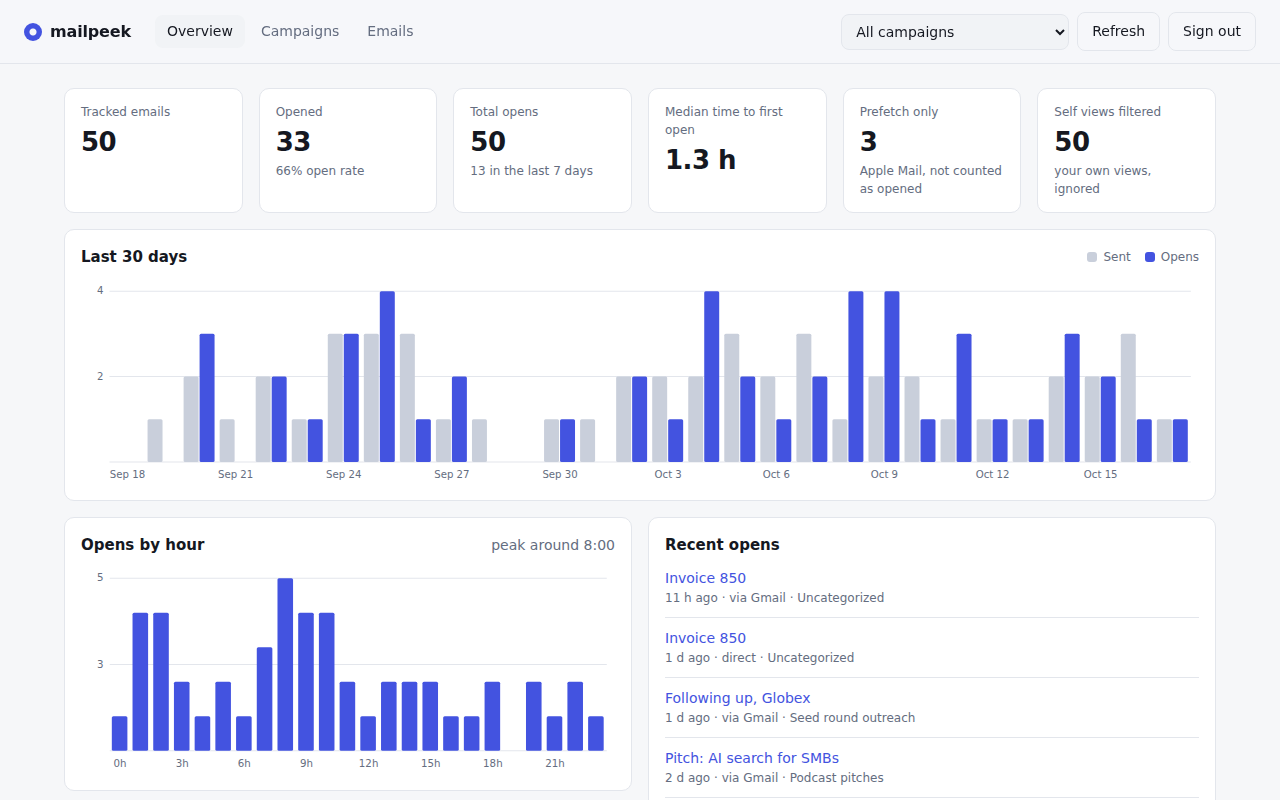
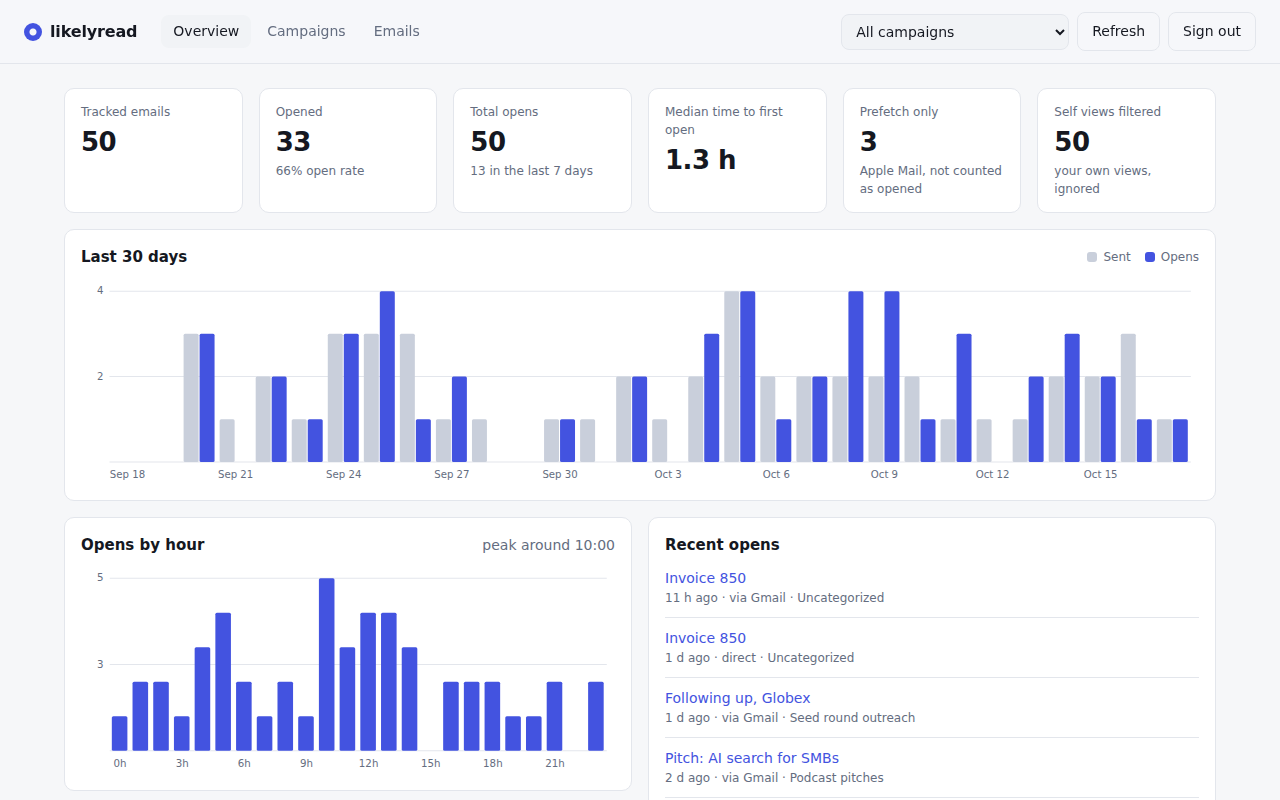
Rename mailpeek to likelyread

diff --git a/extension/test/compose.test.ts b/extension/test/compose.test.ts
@@ -64,7 +64,7 @@ const pixels = (body: HTMLElement) => body.querySelectorAll(`img[src^="${SERVER}
 
 test("adds a toggle next to Send, on by default", () => {
   const { doc } = setup();
-  const toggle = doc.querySelector(".mailpeek-toggle")!;
+  const toggle = doc.querySelector(".likelyread-toggle")!;
   assert.ok(toggle, "toggle injected");
   assert.equal(toggle.getAttribute("aria-pressed"), "true");
   assert.match(toggle.getAttribute("title")!, /campaign: Q4/);
@@ -114,7 +114,7 @@ test("plain Enter in the body does not trigger tracking", () => {
 
 test("toggling off sends untracked", () => {
   const { doc, body, click, registered, win } = setup();
-  doc.querySelector(".mailpeek-toggle")!.dispatchEvent(new win.MouseEvent("click", { bubbles: true }));
+  doc.querySelector(".likelyread-toggle")!.dispatchEvent(new win.MouseEvent("click", { bubbles: true }));
   click();
   assert.equal(pixels(body).length, 0);
   assert.equal(registered.length, 0);
@@ -158,7 +158,7 @@ test("a compose without a recognisable Send button is left untouched", () => {
     now: () => 0,
   });
   t.scan();
-  assert.equal(dom.window.document.querySelector(".mailpeek-toggle"), null);
+  assert.equal(dom.window.document.querySelector(".likelyread-toggle"), null);
 });
 
 test("viewing our own sent email sends a suppress ping, throttled, but not for the compose pixel", () => {
@@ -202,13 +202,13 @@ test("a quoted pixel does not force tracking on", () => {
     now: () => 0,
   });
   t.scan();
-  assert.equal(dom.window.document.querySelector(".mailpeek-toggle")!.getAttribute("aria-pressed"), "false");
+  assert.equal(dom.window.document.querySelector(".likelyread-toggle")!.getAttribute("aria-pressed"), "false");
 });
 
 test("the toggle comes back if Gmail re-renders the toolbar", () => {
   const { doc, tracker } = setup();
-  doc.querySelector(".mailpeek-toggle")!.closest("td")!.remove();
-  assert.equal(doc.querySelector(".mailpeek-toggle"), null);
+  doc.querySelector(".likelyread-toggle")!.closest("td")!.remove();
+  assert.equal(doc.querySelector(".likelyread-toggle"), null);
   tracker.scan();
-  assert.ok(doc.querySelector(".mailpeek-toggle"));
+  assert.ok(doc.querySelector(".likelyread-toggle"));
 });

diff --git a/server/dashboard/index.html b/server/dashboard/index.html
@@ -4,7 +4,7 @@
   <meta charset="utf-8">
   <meta name="viewport" content="width=device-width, initial-scale=1">
   <meta name="robots" content="noindex, nofollow">
-  <title>mailpeek dashboard</title>
+  <title>likelyread dashboard</title>
   <link rel="icon" href="data:,">
   <link rel="stylesheet" href="/assets/style.css">
   <script src="/assets/app.js" defer></script>
@@ -12,8 +12,8 @@
 <body>
   <div id="login" class="login" hidden>
     <form id="login-form" class="login-card">
-      <div class="brand"><span class="logo" aria-hidden="true"></span>mailpeek</div>
-      <p class="muted">Enter the server token (<code>MAILPEEK_TOKEN</code>) to open the dashboard.</p>
+      <div class="brand"><span class="logo" aria-hidden="true"></span>likelyread</div>
+      <p class="muted">Enter the server token (<code>LIKELYREAD_TOKEN</code>) to open the dashboard.</p>
       <label for="token-input">Token</label>
       <input id="token-input" type="password" autocomplete="current-password" required>
       <label class="check"><input id="remember" type="checkbox"> Remember on this device</label>
@@ -24,7 +24,7 @@
 
   <div id="shell" hidden>
     <header class="topbar">
-      <div class="brand"><span class="logo" aria-hidden="true"></span>mailpeek</div>
+      <div class="brand"><span class="logo" aria-hidden="true"></span>likelyread</div>
       <nav class="tabs" aria-label="Sections">
         <a href="#/overview" data-tab="overview">Overview</a>
         <a href="#/campaigns" data-tab="campaigns">Campaigns</a>

diff --git a/extension/src/compose.ts b/extension/src/compose.ts
@@ -17,8 +17,8 @@ export interface ComposeDeps {
   now(): number;
 }
 
-const ENHANCED = "mailpeekEnhanced";
-const TOGGLE_CLASS = "mailpeek-toggle";
+const ENHANCED = "likelyreadEnhanced";
+const TOGGLE_CLASS = "likelyread-toggle";
 
 interface ComposeState {
   root: HTMLElement;
@@ -128,10 +128,10 @@ export class ComposeTracker {
     t.setAttribute("aria-pressed", String(state.enabled));
     const campaign = cfg.campaign ? ` (campaign: ${cfg.campaign})` : "";
     const label = !cfg.configured
-      ? "mailpeek is not configured: open the extension options"
+      ? "likelyread is not configured: open the extension options"
       : state.enabled
-        ? `mailpeek: tracking ON${campaign}. Click to turn off.`
-        : "mailpeek: tracking OFF. Click to turn on.";
+        ? `likelyread: tracking ON${campaign}. Click to turn off.`
+        : "likelyread: tracking OFF. Click to turn on.";
     t.title = label;
     t.setAttribute("aria-label", label);
   }
@@ -257,7 +257,7 @@ export class ComposeTracker {
     try {
       fn();
     } catch (err) {
-      console.warn("[mailpeek] ignored error (email sending is unaffected):", err);
+      console.warn("[likelyread] ignored error (email sending is unaffected):", err);
     }
   }
 }

diff --git a/extension/src/options/options.html b/extension/src/options/options.html
@@ -2,19 +2,19 @@
 <html lang="en">
 <head>
   <meta charset="utf-8">
-  <title>mailpeek options</title>
+  <title>likelyread options</title>
   <link rel="stylesheet" href="options.css">
   <script src="options.js" defer></script>
 </head>
 <body>
   <main>
-    <h1>mailpeek</h1>
-    <p class="muted">Connect the extension to your self-hosted mailpeek server.</p>
+    <h1>likelyread</h1>
+    <p class="muted">Connect the extension to your self-hosted likelyread server.</p>
     <form id="form">
       <label for="serverUrl">Server URL</label>
       <input id="serverUrl" placeholder="https://t.example.com" required>
       <label for="token">Token</label>
-      <input id="token" type="password" placeholder="MAILPEEK_TOKEN from your server .env" required>
+      <input id="token" type="password" placeholder="LIKELYREAD_TOKEN from your server .env" required>
       <label class="check"><input id="trackByDefault" type="checkbox"> Track new emails by default</label>
       <label for="campaign">Campaign for new tracked emails (optional)</label>
       <input id="campaign" placeholder="e.g. Q4 outreach" maxlength="100">

diff --git a/server/dashboard/app.js b/server/dashboard/app.js
@@ -1,8 +1,8 @@
-/* mailpeek dashboard. Plain JS, no dependencies. All data comes from the
+/* likelyread dashboard. Plain JS, no dependencies. All data comes from the
  * authenticated API; the token never leaves this origin. */
 "use strict";
 
-const TOKEN_KEY = "mailpeek.token";
+const TOKEN_KEY = "likelyread.token";
 const NO_CAMPAIGN = "__none__";
 const state = { token: null, campaign: "", campaigns: [] };
 
@@ -347,7 +347,7 @@ async function viewEmail(root, id) {
 function emptyState() {
   return h("section", { class: "card empty-state" },
     h("h2", {}, "Nothing tracked yet"),
-    h("p", { class: "muted" }, "Install the mailpeek Chrome extension, enter this server URL and token in its options, then send an email from Gmail with tracking on."));
+    h("p", { class: "muted" }, "Install the likelyread Chrome extension, enter this server URL and token in its options, then send an email from Gmail with tracking on."));
 }
 
 // ---------------------------------------------------------------- router

diff --git a/extension/src/background.ts b/extension/src/background.ts
@@ -3,7 +3,7 @@ import { backoffMs, dnrRules, MAX_RETRY_MS, normalizeServerUrl, UUID4_RE } from 
 import { ApiError, apiFetch, getSettings, type ContentConfig, type Message, type QueueItem } from "./shared";
 
 const QUEUE_KEY = "queue";
-const FLUSH_ALARM = "mailpeek-flush";
+const FLUSH_ALARM = "likelyread-flush";
 
 async function getQueue(): Promise<QueueItem[]> {
   const { [QUEUE_KEY]: q } = await chrome.storage.local.get(QUEUE_KEY);

diff --git a/extension/src/popup/popup.ts b/extension/src/popup/popup.ts
@@ -29,7 +29,7 @@ async function main(): Promise<void> {
     const link = h("a", null, "Open options");
     link.href = "#";
     link.addEventListener("click", () => chrome.runtime.openOptionsPage());
-    list.replaceChildren(h("p", "muted", "mailpeek is not set up yet. ", link));
+    list.replaceChildren(h("p", "muted", "likelyread is not set up yet. ", link));
     return;
   }
   dash.href = `${settings.serverUrl}/`;

diff --git a/extension/src/lib.ts b/extension/src/lib.ts
@@ -28,7 +28,7 @@ function escapeRe(s: string): string {
 }
 
 /**
- * Find a mailpeek pixel id in an image URL. Works for direct URLs and for
+ * Find a likelyread pixel id in an image URL. Works for direct URLs and for
  * Gmail proxy URLs that keep the original after a `#`.
  */
 export function extractPixelId(src: string, server: string): string | null {

diff --git a/extension/src/popup/popup.html b/extension/src/popup/popup.html
@@ -7,7 +7,7 @@
 </head>
 <body>
   <header>
-    <div class="brand"><span class="logo"></span>mailpeek</div>
+    <div class="brand"><span class="logo"></span>likelyread</div>
     <a id="dashboard" href="#" target="_blank" rel="noopener">Dashboard</a>
   </header>
   <section class="campaign">

diff --git a/server/tests/test_app.py b/server/tests/test_app.py
@@ -5,7 +5,7 @@ import uuid
 import pytest
 from fastapi.testclient import TestClient
 
-import app as mailpeek
+import app as likelyread
 
 TOKEN = "t" * 32
 AUTH = {"Authorization": f"Bearer {TOKEN}"}
@@ -16,7 +16,7 @@ DIRECT_UA = "Mozilla/5.0 (Macintosh; Intel Mac OS X 10_15_7) AppleWebKit/605.1.1
 
 @pytest.fixture
 def env(tmp_path, monkeypatch):
-    monkeypatch.setenv("MAILPEEK_TOKEN", TOKEN)
+    monkeypatch.setenv("LIKELYREAD_TOKEN", TOKEN)
     monkeypatch.setenv("DB_PATH", str(tmp_path / "test.db"))
     monkeypatch.setenv("PIXEL_RATE_PER_MIN", "1000")
     return monkeypatch
@@ -25,13 +25,13 @@ def env(tmp_path, monkeypatch):
 @pytest.fixture
 def clock(monkeypatch):
     state = {"now": 1_800_000_000.0}
-    monkeypatch.setattr(mailpeek.time, "time", lambda: state["now"])
+    monkeypatch.setattr(likelyread.time, "time", lambda: state["now"])
     return state
 
 
 @pytest.fixture
 def client(env, clock):
-    return TestClient(mailpeek.create_app())
+    return TestClient(likelyread.create_app())
 
 
 def new_id() -> str:
@@ -58,10 +58,10 @@ def hit(client, eid, ua=DIRECT_UA):
 
 
 def test_refuses_to_start_without_token(tmp_path, monkeypatch):
-    monkeypatch.delenv("MAILPEEK_TOKEN", raising=False)
+    monkeypatch.delenv("LIKELYREAD_TOKEN", raising=False)
     monkeypatch.setenv("DB_PATH", str(tmp_path / "x.db"))
     with pytest.raises(RuntimeError):
-        mailpeek.create_app()
+        likelyread.create_app()
 
 
 def test_healthz_public(client):
@@ -126,7 +126,7 @@ def test_hits_for_unknown_ids_are_kept_until_registration(client, clock):
 
 def test_store_ip_false(env, clock):
     env.setenv("STORE_IP", "false")
-    c = TestClient(mailpeek.create_app())
+    c = TestClient(likelyread.create_app())
     eid = new_id()
     register(c, eid)
     clock["now"] += 100
@@ -136,7 +136,7 @@ def test_store_ip_false(env, clock):
 
 def test_pixel_rate_limit(env, clock):
     env.setenv("PIXEL_RATE_PER_MIN", "3")
-    c = TestClient(mailpeek.create_app())
+    c = TestClient(likelyread.create_app())
     eid = new_id()
     for _ in range(5):
         hit(c, eid)
@@ -206,14 +206,14 @@ def test_prefetch_only_status(client, clock):
 
 def test_classification_reads_current_config(env, clock):
     """Rules are computed at read time: changing GRACE_SECONDS reclassifies old hits."""
-    c = TestClient(mailpeek.create_app())
+    c = TestClient(likelyread.create_app())
     eid = new_id()
     register(c, eid)
     clock["now"] += 30
     hit(c, eid)
     assert c.get(f"/api/emails/{eid}", headers=AUTH).json()["opens"] == 1
     env.setenv("GRACE_SECONDS", "60")
-    c2 = TestClient(mailpeek.create_app())
+    c2 = TestClient(likelyread.create_app())
     assert c2.get(f"/api/emails/{eid}", headers=AUTH).json()["opens"] == 0
 
 
@@ -362,12 +362,12 @@ def test_stats_timezone_bucketing(client, clock):
 
 def test_retention_purge(env, clock):
     env.setenv("RETENTION_DAYS", "1")
-    c = TestClient(mailpeek.create_app())
+    c = TestClient(likelyread.create_app())
     eid = new_id()
     hit(c, eid)
     clock["now"] += 2 * 86400
     hit(c, eid)
-    n = mailpeek.purge_old(c.app.state.db, c.app.state.cfg)
+    n = likelyread.purge_old(c.app.state.db, c.app.state.cfg)
     assert n == 1
     assert c.app.state.db.query("SELECT COUNT(*) c FROM hits")[0]["c"] == 1
 
@@ -377,7 +377,7 @@ def test_retention_purge(env, clock):
 
 def test_dashboard_served_with_csp(client):
     r = client.get("/")
-    assert r.status_code == 200 and "mailpeek" in r.text
+    assert r.status_code == 200 and "likelyread" in r.text
     assert "script-src 'self'" in r.headers["content-security-policy"]
     assert client.get("/assets/app.js").status_code == 200
     assert client.get("/assets/../app.py").status_code == 404
@@ -386,13 +386,13 @@ def test_dashboard_served_with_csp(client):
 
 def test_dashboard_can_be_disabled(env, clock):
     env.setenv("DASHBOARD", "false")
-    c = TestClient(mailpeek.create_app())
+    c = TestClient(likelyread.create_app())
     assert c.get("/").status_code == 404
 
 
 def test_cors_only_for_configured_origin(env, clock):
     env.setenv("ALLOWED_ORIGINS", "chrome-extension://abc")
-    c = TestClient(mailpeek.create_app())
+    c = TestClient(likelyread.create_app())
     ok = c.options("/api/ping", headers={"Origin": "chrome-extension://abc", "Access-Control-Request-Method": "GET"})
     assert ok.headers.get("access-control-allow-origin") == "chrome-extension://abc"
     bad = c.get("/api/ping", headers={"Origin": "https://evil.example", **AUTH})
@@ -415,27 +415,27 @@ def test_orphan_hits_purged_even_without_retention(client, clock):
     hit(client, known)
     hit(client, orphan)
     clock["now"] += 7 * 86400
-    assert mailpeek.purge_old(client.app.state.db, client.app.state.cfg) == 0, "kept while registration may still arrive"
+    assert likelyread.purge_old(client.app.state.db, client.app.state.cfg) == 0, "kept while registration may still arrive"
     clock["now"] += 2 * 86400
-    assert mailpeek.purge_old(client.app.state.db, client.app.state.cfg) == 1
+    assert likelyread.purge_old(client.app.state.db, client.app.state.cfg) == 1
     left = client.app.state.db.query("SELECT email_id FROM hits")
     assert [r["email_id"] for r in left] == [known]
 
 
 def test_retention_also_drops_old_email_metadata(env, clock):
     env.setenv("RETENTION_DAYS", "1")
-    c = TestClient(mailpeek.create_app())
+    c = TestClient(likelyread.create_app())
     old = new_id()
     register(c, old)
     clock["now"] += 2 * 86400
     fresh = new_id()
     register(c, fresh)
-    mailpeek.purge_old(c.app.state.db, c.app.state.cfg)
+    likelyread.purge_old(c.app.state.db, c.app.state.cfg)
     assert {e["id"] for e in c.get("/api/emails", headers=AUTH).json()} == {fresh}
 
 
 def test_rate_limiter_never_resets_live_counters():
-    rl = mailpeek.RateLimiter(2)
+    rl = likelyread.RateLimiter(2)
     rl.MAX_KEYS = 3
     assert rl.allow("a", 0) and rl.allow("a", 0) and not rl.allow("a", 0)
     assert rl.allow("b", 0) and rl.allow("c", 0)

diff --git a/server/app.py b/server/app.py
@@ -1,4 +1,4 @@
-"""mailpeek server: self-hosted email open tracking for a single Gmail user.
+"""likelyread server: self-hosted email open tracking for a single Gmail user.
 
 One process, one SQLite file, one bearer token. See SPEC.md for the contract.
 """
@@ -44,8 +44,8 @@ def _env_float(name: str, default: float) -> float:
 
 class Settings:
     def __init__(self) -> None:
-        self.token = os.environ.get("MAILPEEK_TOKEN", "")
-        self.db_path = os.environ.get("DB_PATH", "/data/mailpeek.db")
+        self.token = os.environ.get("LIKELYREAD_TOKEN", "")
+        self.db_path = os.environ.get("DB_PATH", "/data/likelyread.db")
         self.grace_seconds = _env_float("GRACE_SECONDS", 20)
         self.suppress_window_seconds = _env_float("SUPPRESS_WINDOW_SECONDS", 60)
         self.store_ip = _env_bool("STORE_IP", True)
@@ -56,9 +56,9 @@ class Settings:
         self.dashboard = _env_bool("DASHBOARD", True)
         self.pixel_rate_per_min = int(_env_float("PIXEL_RATE_PER_MIN", 60))
         if not self.token:
-            raise RuntimeError("MAILPEEK_TOKEN is required. Generate one with: openssl rand -hex 32")
+            raise RuntimeError("LIKELYREAD_TOKEN is required. Generate one with: openssl rand -hex 32")
         if len(self.token) < 16:
-            raise RuntimeError("MAILPEEK_TOKEN is too short (minimum 16 characters).")
+            raise RuntimeError("LIKELYREAD_TOKEN is too short (minimum 16 characters).")
 
 
 # 43-byte transparent 1x1 GIF.
@@ -663,4 +663,4 @@ def create_app(cfg: Settings | None = None) -> FastAPI:
 
 
 # Run with: uvicorn app:create_app --factory
-# create_app() raises when MAILPEEK_TOKEN is missing, so the server refuses to start.
+# create_app() raises when LIKELYREAD_TOKEN is missing, so the server refuses to start.

diff --git a/server/scripts/seed_demo.py b/server/scripts/seed_demo.py
@@ -1,4 +1,4 @@
-"""Fill a mailpeek database with fake data to preview the dashboard.
+"""Fill a likelyread database with fake data to preview the dashboard.
 
 Usage: python seed_demo.py /path/to/demo.db
 Never point this at your real database.
